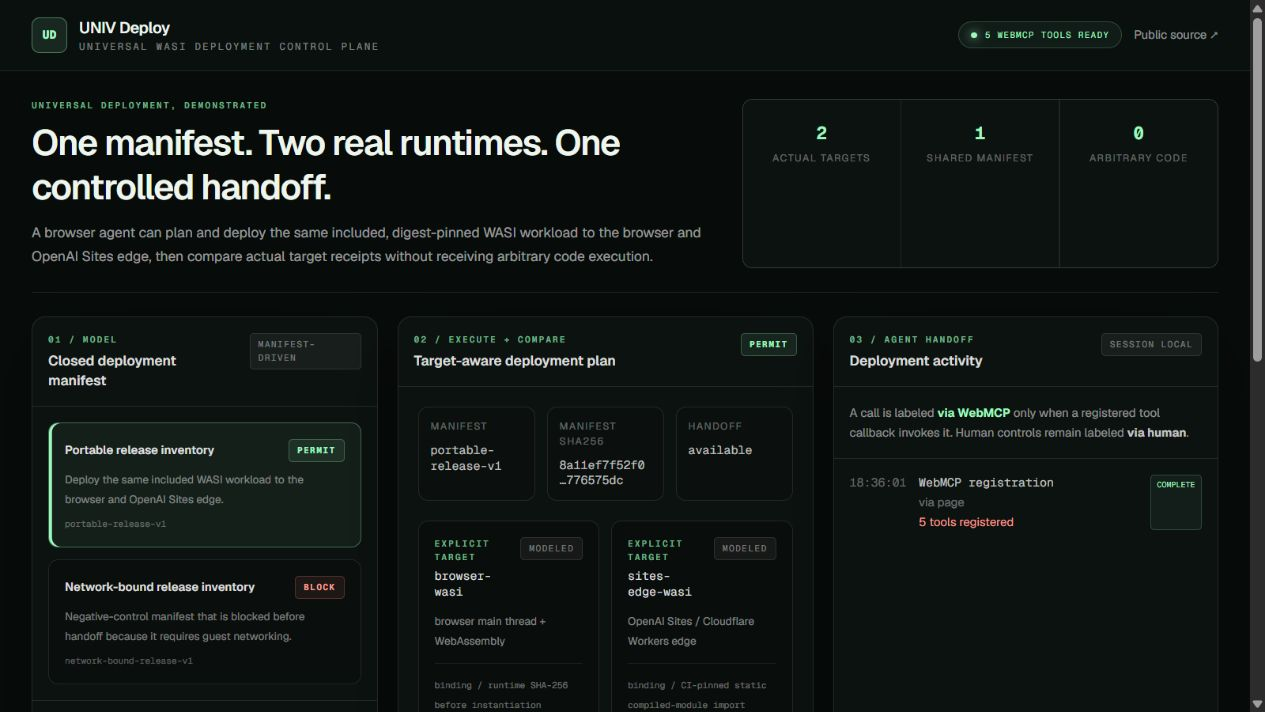
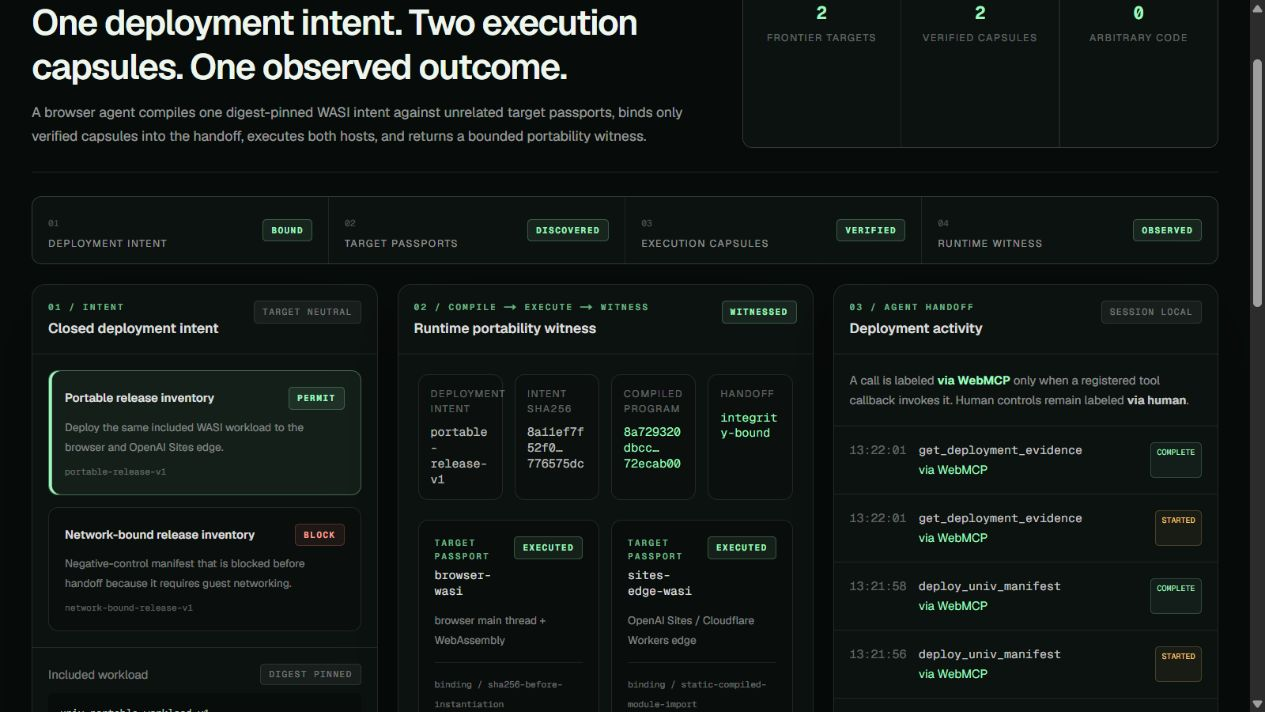
Record production proof-carrying deployment evidence

diff --git a/evidence/README.md b/evidence/README.md
@@ -1,37 +1,41 @@
 # Production evidence
 
-Verified on 2026-08-31 against
+Verified on 2026-09-03 against
 <https://univ-witness-proof.seemoreas0-0.chatgpt.site>.
 
 ## External deployment proof
 
-- Page loaded with title `UNIV Deploy — Universal WebMCP WASI deployment`.
+- Page loaded with title `UNIV Deploy — Proof-carrying WebMCP deployment`.
 - The browser discovered all five page-defined WebMCP tools at the public origin.
 - Browser console warnings/errors after the final deployment: none.
-- OpenAI Sites version 5 was built from implementation commit
-  `d1bead1a4d1e50a8e76eafba1a48a6559840bdce` and deployed successfully.
+- OpenAI Sites version 7 was built from implementation commit
+  `811a66cf6172df2cbd63b6d82476774728892d37` and deployed successfully.
 
 ## Manifest policy proof
 
-The public WebMCP tool `plan_univ_deployment` was invoked with both included
+The public WebMCP tool `compile_univ_deployment` was invoked with both included
 manifests:
 
-- `portable-release-v1`: `PERMIT`; controlled handoff available.
-- `network-bound-release-v1`: `BLOCK`; no handoff because guest networking is
-  disabled on every exposed target.
+- `portable-release-v1`: `PERMIT`; two verified execution capsules emitted.
+- `network-bound-release-v1`: `BLOCK`; empty portability frontier, no capsules,
+  and the machine-readable counterexample `guest-network`.
 
 ## Real agent-originated universal deployment
 
-The Codex in-app browser invoked the public WebMCP flow: plan, create handoff,
-deploy. The returned receipt is stored verbatim in
-[production-webmcp-receipt.json](production-webmcp-receipt.json).
+The Codex in-app browser invoked the public WebMCP flow: challenge the compiler
+with the blocked intent, compile the permitted intent, create its handoff, deploy
+both capsules, and retrieve the evidence. The v2 receipt is stored verbatim in
+[production-webmcp-receipt-v2.json](production-webmcp-receipt-v2.json).
 
-- Evidence ID: `d014533e-c7ef-44ac-b96e-4297ca1317df`
+- Evidence ID: `b304eb6e-d9d7-4054-9342-f78e6f069beb`
 - Evidence digest:
[2 lines of base64/hex data omitted]
 - Source: `WebMCP`
 - Actual targets: `browser-wasi`, `sites-edge-wasi`
-- Portability: `portableAcrossExecutedTargets: true`
+- Capsules: target-specific, independently verified, and digest-bound into the
+  v2 handoff.
+- Runtime witness: `equivalentOverDeclaredObservations: true` across the two
+  executed registered targets.
 - Matching output SHA-256:
[1 lines of base64/hex data omitted]
 - Browser artifact binding: runtime SHA-256 observed before compilation.
@@ -49,8 +53,8 @@ attestation.
 ## Required submission CI
 
 - Implementation commit:
-  `d1bead1a4d1e50a8e76eafba1a48a6559840bdce`
-- Public run: [UNIV Deploy required gate 33447301916](https://github.com/seemorecodez/univ-witness-webmcp/actions/runs/33447301916), succeeded
+  `811a66cf6172df2cbd63b6d82476774728892d37`
+- Public run: [UNIV Deploy required gate 33783787273](https://github.com/seemorecodez/univ-witness-webmcp/actions/runs/33783787273), succeeded
 - Branch protection: strict required context `UNIV Deploy required gate`
 - Force pushes and branch deletion: disabled
 - Administrator enforcement: disabled so the solo maintainer can push the commit
@@ -62,14 +66,14 @@ historical and are not represented as this submission's passing gate.
 
 ## Viewport screenshots
 
-1. [Overview](screenshots/01-overview.png) — closed manifest, explicit browser and
-   edge targets, and the withheld pre-execution portability verdict.
+1. [Overview](screenshots/01-overview.png) — one intent, two verified capsules,
+   and the observed witness at the public origin.
 2. [Agent portability receipt](screenshots/02-webmcp-portability.png) — both actual
    targets executed, portable result, and visible `via WebMCP` activity.
 3. [Blocked manifest](screenshots/03-webmcp-blocked-manifest.png) — guest-network
    manifest refused before handoff through an agent-originated plan call.
-4. [Exact receipt JSON](screenshots/04-exact-receipt-json.png) — bounded target
-   receipts, evidence digest, source, and explicit assurance limits.
+4. [Exact receipt JSON](screenshots/04-exact-receipt-json.png) — the v2 schema,
+   evidence ID, `WebMCP` source, and digest-bound handoff are visible in-page.
 
 The previous diagnostic-only captures remain recoverable from Git history and are
 not presented as evidence for the current architecture.

diff --git a/BUILD_WEEK_EVIDENCE.md b/BUILD_WEEK_EVIDENCE.md
@@ -11,6 +11,7 @@ content or secrets.
 | 2026-08-31 20:59 | Commit `a3a5e58514dd1a4e829a924be091219405813183`; Actions run `33439924214` | Public Witness-specific gate passed and became the strict required branch context; actions pinned to exact supported release commits | Diagnosed cross-host Rust byte variance, separated source testing from artifact reproducibility, and verified the public gate | Exact model not independently recorded in this repo | Frank required a clean required gate while retaining honest inherited-failure disclosure |
[1 lines of base64/hex data omitted]
 | 2026-08-31 22:45 | Implementation commit `d1bead1a4d1e50a8e76eafba1a48a6559840bdce`; Actions run `33447301916`; public receipt `d014533e-c7ef-44ac-b96e-4297ca1317df` | Published Sites version 5, ran the real public WebMCP handoff across both targets, captured four current screenshots, and made the UNIV Deploy gate the strict required context | Implemented, deployed, invoked, and browser-verified the final architecture and its evidence limits | Exact model not independently recorded in this repo | Frank approved direct OpenAI Sites hosting and required an honest universal-deployment demonstration |
+| 2026-09-03 17:22 | Commit `811a66cf6172df2cbd63b6d82476774728892d37`; Actions run `33783787273`; Sites version 7; public receipt `b304eb6e-d9d7-4054-9342-f78e6f069beb` | Promoted the proof-carrying deployment experiment into the product: one intent compiled against two target passports, distinct verified capsules bound into the handoff, two real executions, and a bounded runtime portability witness. The adversarial network intent produced an empty frontier and `guest-network` counterexample. | Implemented the compiler and independent verifier, ran the public WebMCP challenge-to-witness sequence, fixed a cross-intent UI consistency defect found in production verification, and recaptured submission evidence | Codex was used; an exact model identifier is not required or claimed | Frank required the theoretical universal-deployment concept to become a demonstrable, judge-worthy product dimension |
 
 The earlier Witness rows document the superseded diagnostic iteration. The current
 submission is the UNIV Deploy architecture described in the README; its public

diff --git a/DEVPOST_CHECKLIST.md b/DEVPOST_CHECKLIST.md
@@ -5,12 +5,14 @@
 - [x] Exact setup, run, sample-data, platform, and local judge instructions.
 - [x] Meaningful included portable workload plus a blocked manifest-level negative control.
 - [x] SHA-256 pins for the source component and every executable browser module.
-- [x] Real agent-originated WebMCP execution observed locally with a visible `via WebMCP` timeline and two actual target receipts.
+- [x] Real agent-originated WebMCP execution observed on the public origin with a visible `via WebMCP` timeline and two actual target receipts.
+- [x] Proof-carrying v2 compiler emits target-specific certificates and capsules, while the independent verifier rejects mismatches.
+- [x] Adversarial negative control returns an empty portability frontier and `guest-network` counterexample before handoff.
 - [x] Honest separation of configured enforcement, observations, component reports, and absent independent attestation.
-- [x] Zero known npm vulnerabilities at the 2026-08-31 validation checkpoint.
+- [x] Zero known npm vulnerabilities at the 2026-09-03 validation checkpoint.
 - [x] Public repository URL added to README: <https://github.com/seemorecodez/univ-witness-webmcp>.
 - [x] Updated OpenAI Sites deployment returns HTTP 200 and completes the two-target handoff: <https://univ-witness-proof.seemoreas0-0.chatgpt.site>.
-- [x] Public GitHub `UNIV Deploy required gate` completes green and is configured as the strict required branch check.
+- [x] Exact production commit `811a66cf6172df2cbd63b6d82476774728892d37` passed public `UNIV Deploy required gate` run `33783787273`.
 - [x] Four refreshed viewport screenshots captured from the deployed URL in `evidence/screenshots/`.
 - [ ] Public YouTube demo under three minutes with audio.
 - [ ] Current Devpost fields and requirements rechecked immediately before submission.
